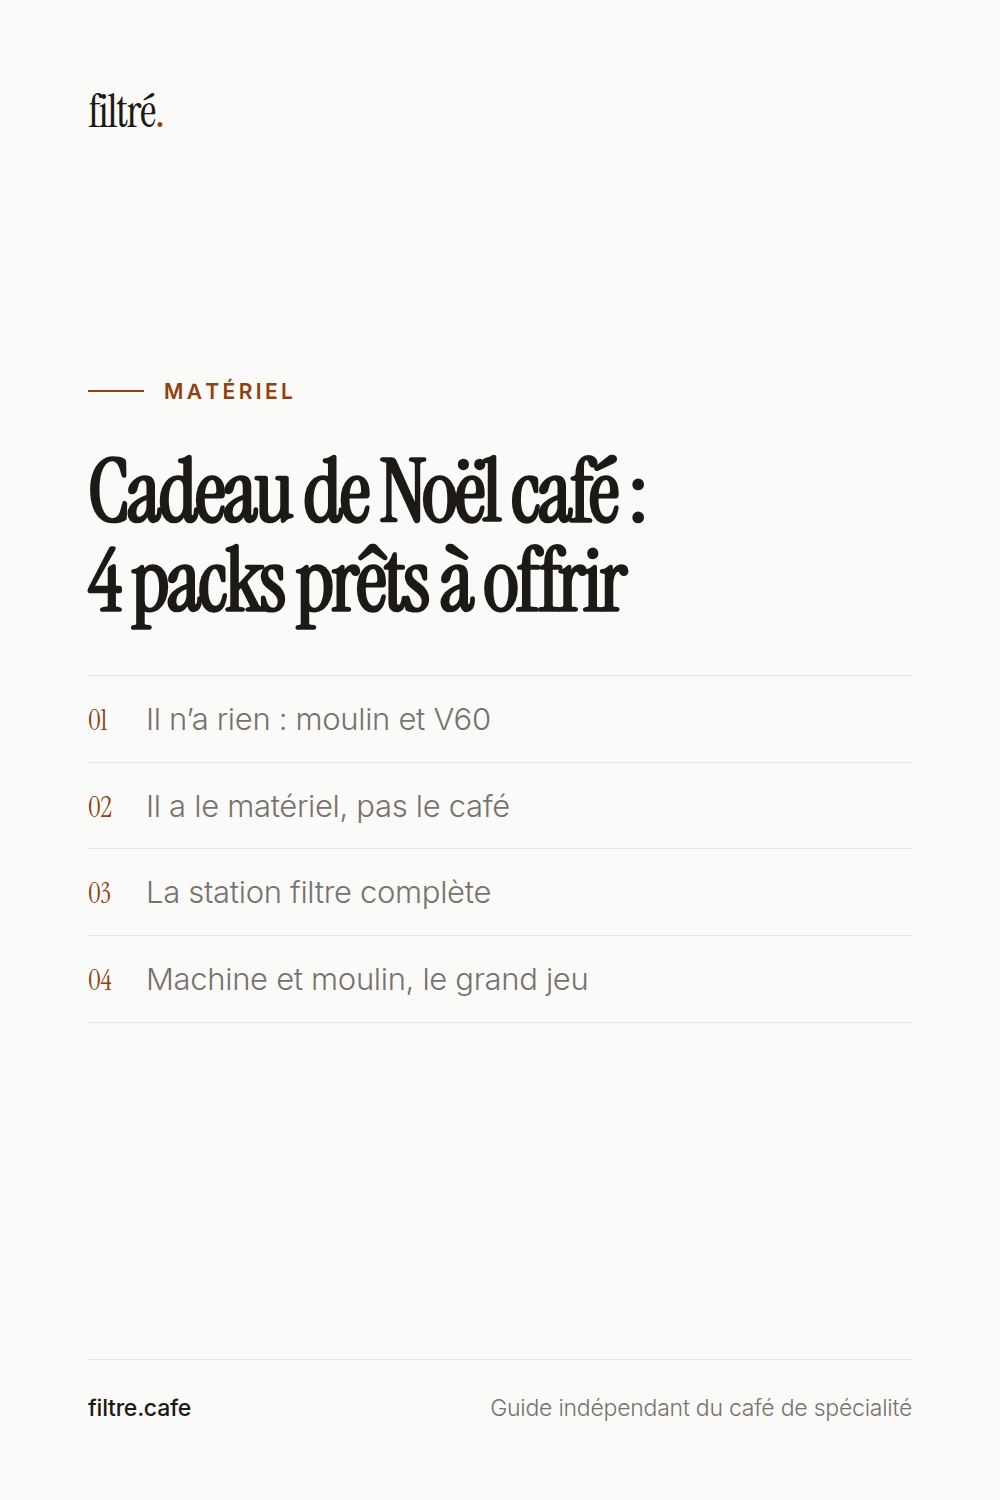
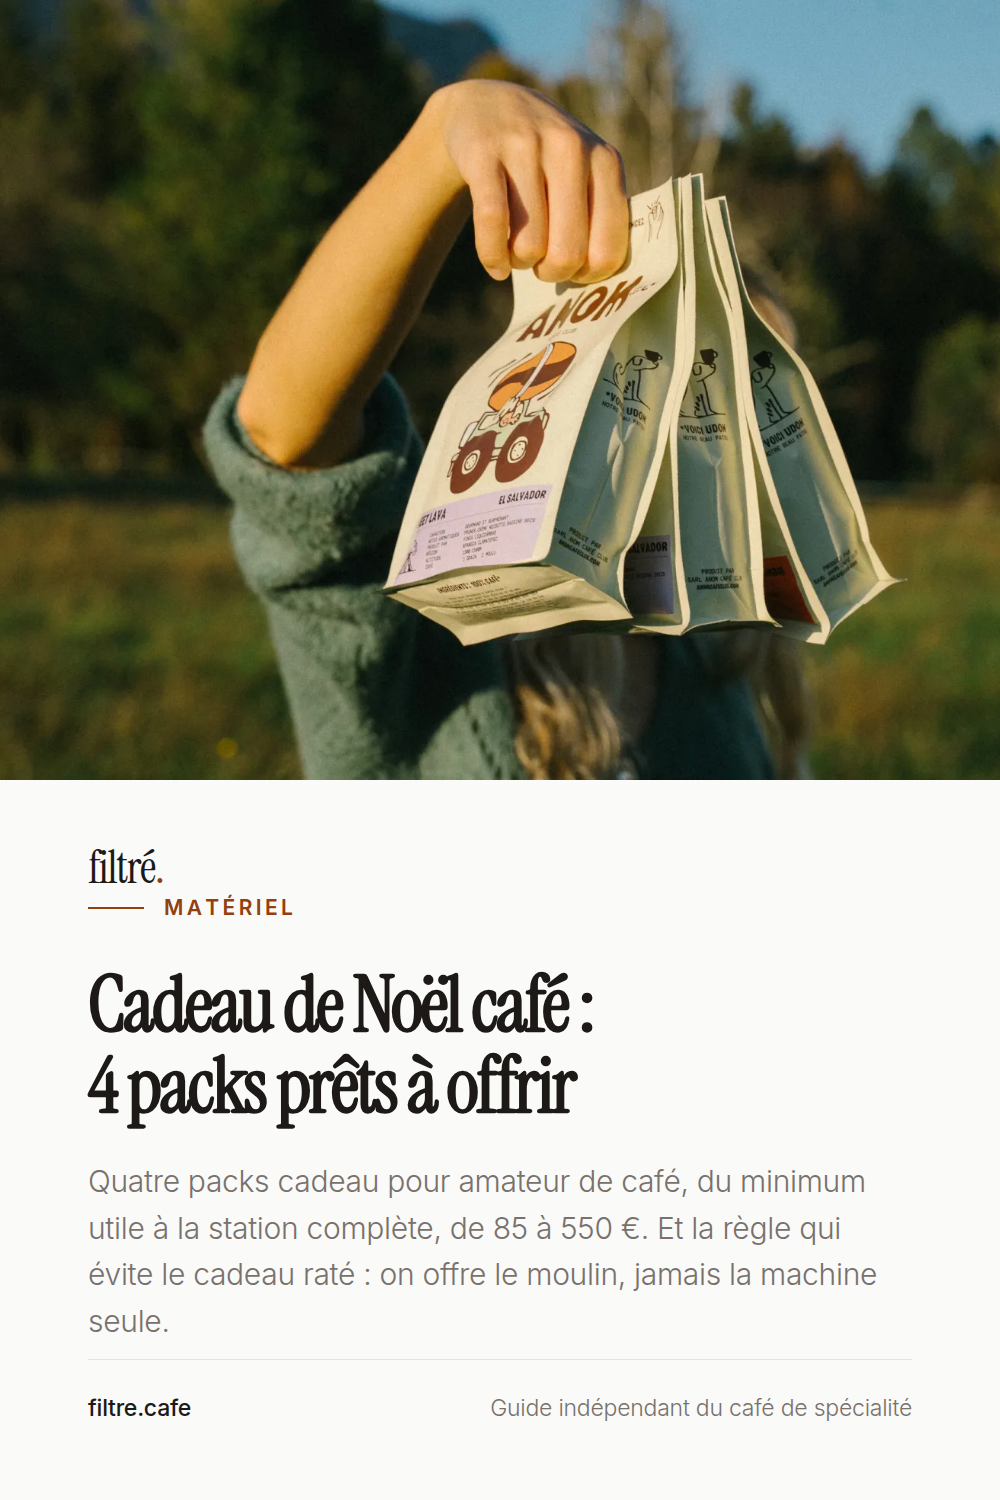
Lepingle cadeau passe en photo, et pins.py sait faire des photos
Les cartes typographiques suffisaient tant quil ny avait pas dimage.
Pinterest est un fil dimages avant detre un moteur de recherche : sur une
requete cadeau, la photo des paquets porte lepingle mieux que nimporte
quel titre.

template.html gagne une variante photo : limage en pleine largeur sur
780 px, le texte dessous. Le sommaire cede la place a laccroche, qui
nest plus tronquee puisque cest elle qui porte largument.

extras.json declare la photo par son chemin, pins.py linline en data URI
comme les polices : le rendu ne depend daucun reseau. Reutilisable des
quil y aura dautres photos.

Claude-Session: https://claude.ai/code/session_018cW7XuRjVhaHyNnWXWtPpc

diff --git a/tools/pinterest/template.html b/tools/pinterest/template.html
@@ -98,6 +98,22 @@ body.sombre { background: var(--stone-900); --ink: var(--stone-50);  --mute: var
   font-size: 28px; color: var(--accent); flex: none; width: 34px;
 }
 
+/* --- variante photo : l'image en pleine largeur, le texte dessous --- */
+/* Les cartes typographiques suffisent tant qu'il n'y a pas de photo. Quand il y
+   en a une, elle porte l'epingle mieux que n'importe quel titre : Pinterest est
+   un fil d'images avant d'etre un moteur de recherche. */
+.hero {
+  flex: none;
+  margin: -84px -88px 60px;
+  height: 780px;
+  overflow: hidden;
+  background: var(--rule);
+}
+.hero img { width: 100%; height: 100%; object-fit: cover; object-position: center 45%; display: block; }
+body.avec-photo .middle { padding-bottom: 40px; justify-content: flex-start; }
+body.avec-photo .title { font-size: 78px; }
+body.avec-photo .sub { margin-top: 32px; font-size: 30px; }
+
 /* --- pied --- */
 .foot {
   flex: none;
@@ -111,8 +127,9 @@ body.sombre { background: var(--stone-900); --ink: var(--stone-50);  --mute: var
 .foot .note { color: var(--mute); font-weight: 300; }
 </style>
 </head>
-<body class="{{THEME}}">
+<body class="{{THEME}}{{HERO_CLASS}}">
 <div class="card">
+  {{HERO}}
   <div class="wordmark">filtré<span>.</span></div>
   <div class="middle">
     <div class="kicker">{{KICKER}}</div>

diff --git a/tools/pinterest/pins.py b/tools/pinterest/pins.py
@@ -200,8 +200,27 @@ def extras(only=None):
             "kicker": KICKERS[board],
             "outline": [curl(h) for h in e.get("outline", [])],
             "theme": e.get("theme"), "layout": e.get("layout"),
+            "photo": e.get("photo"),
         })
     return out
+
+
+def hero(art):
+    """La photo, inlinee en data URI : le rendu ne doit dependre d'aucun reseau.
+
+    Une epingle photo ecrase le sommaire : sous l'image il reste la place d'une
+    accroche, pas d'une liste de quatre lignes.
+    """
+    rel = art.get("photo")
+    if not rel:
+        return "", "", None
+    path = os.path.join(ROOT, rel)
+    blob = open(path, "rb").read()
+    mime = "image/webp" if path.endswith(".webp") else "image/jpeg"
+    b64 = base64.b64encode(blob).decode()
+    alt = html.escape(art.get("photo_alt", ""))
+    markup = (f'<div class="hero"><img src="data:{mime};base64,{b64}" alt="{alt}"></div>')
+    return markup, " avec-photo", True
 
 
 def fonts_css():
@@ -241,17 +260,23 @@ def build_html(art, template, fonts):
     theme = art.get("theme") or ("sombre" if seed % 3 == 0 else "clair")
     veut_toc = art.get("layout") == "sommaire" or (art.get("layout") is None and seed % 3 == 1)
 
+    hero_markup, hero_class, avec_photo = hero(art)
+
     steps = art["outline"][:4]
-    if veut_toc and len(steps) >= 3:
+    if veut_toc and len(steps) >= 3 and not avec_photo:
         items = "".join(f'<li><span class="n">{i:02d}</span>{html.escape(s)}</li>'
                         for i, s in enumerate(steps, 1))
         body = f'<ol class="toc">{items}</ol>'
     else:
-        body = f'<p class="sub">{html.escape(clamp(art["desc"]))}</p>' if art["desc"] else ""
+        # Sous une photo, l'accroche porte l'argument : on ne la tronque pas.
+        texte = art["desc"] if avec_photo else clamp(art["desc"])
+        body = f'<p class="sub">{html.escape(texte)}</p>' if art["desc"] else ""
 
     return (template
             .replace("{{FONTS}}", fonts)
             .replace("{{THEME}}", theme)
+            .replace("{{HERO_CLASS}}", hero_class)
+            .replace("{{HERO}}", hero_markup)
             .replace("{{KICKER}}", html.escape(art["kicker"]))
             .replace("{{TITLE_SIZE}}", str(title_size(art["title"])))
             .replace("{{TITLE}}", html.escape(art["title"]))
